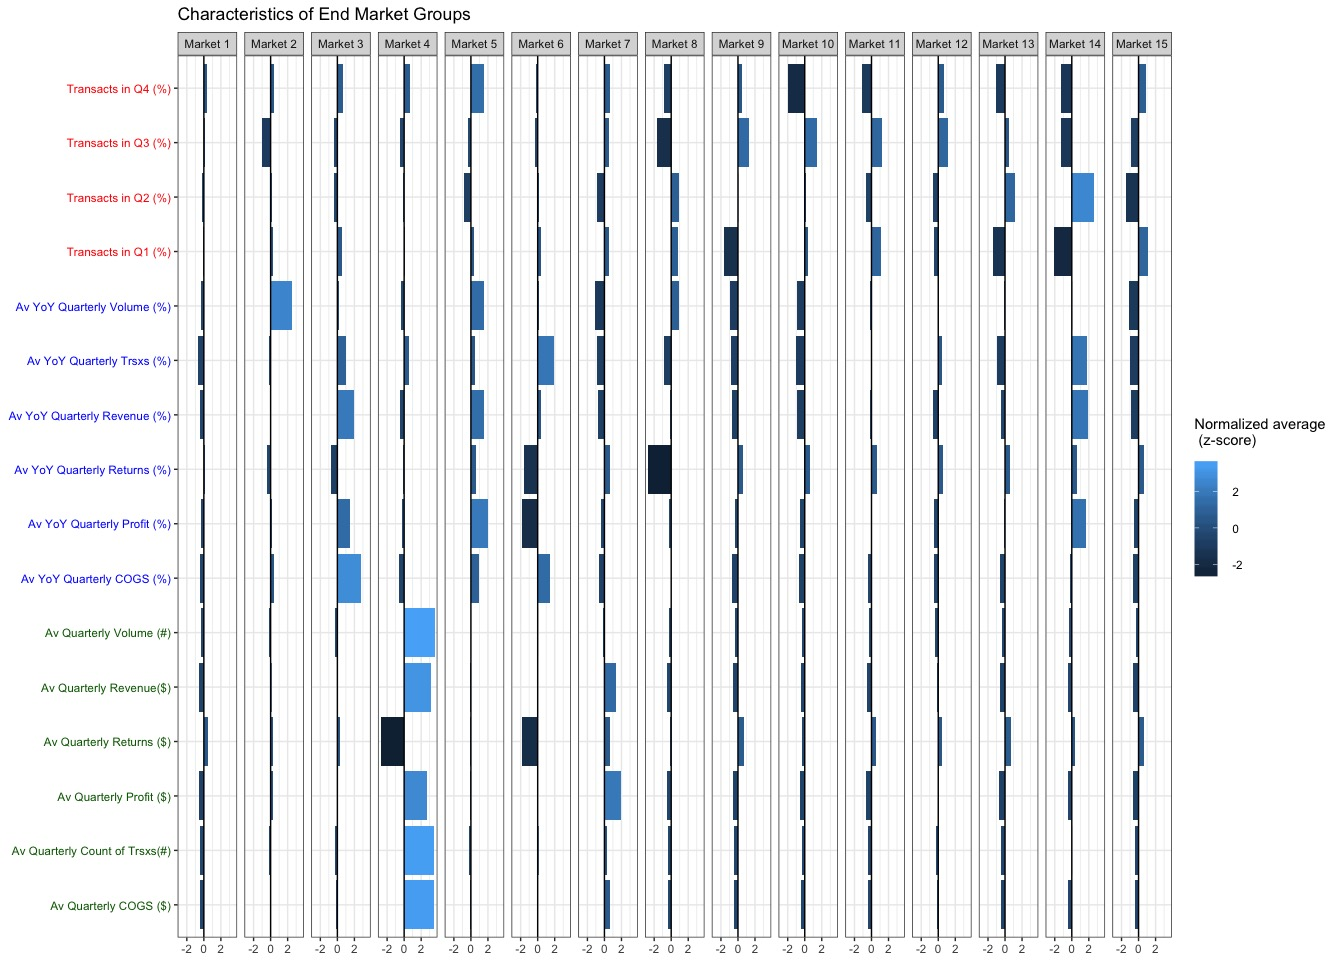
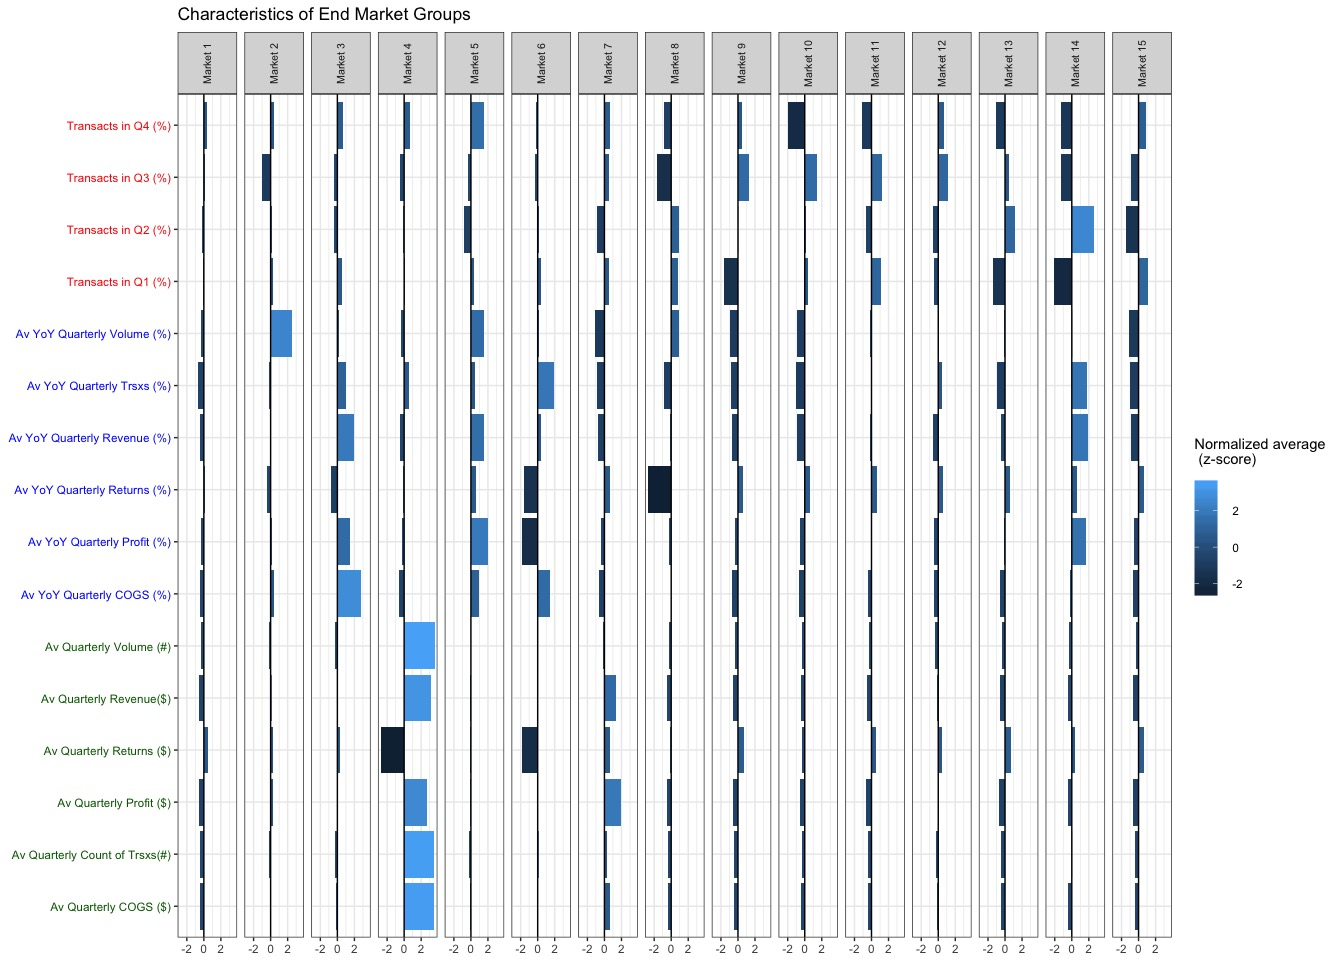
typos

diff --git a/README.md b/README.md
@@ -25,49 +25,45 @@ Objective:
 Either:
 
 1.  Encourage the fund to invest in this component manufacteruer
-2.  Highlight risks and steet company away
+2.  Highlight risks and steer company away
 
 Initial questions:
 ------------------
 
 -   What are potential risks that would steer company away?
--   Customer attrition?
--   Very few customers making up large percentage of purchases (i.e., fragile)
-
+    -   Customer attrition?
+    -   Very few customers making up large percentage of purchases (i.e., fragile)
 -   Potential Upside?
--   Is there significant $ headroom?
--   Reduce Costs?
--   Is there an optimization solution here in terms of cost of sales?
+    -   Is there significant $ headroom?
+    -   Reduce Costs?
+    -   Is there an optimization solution here in terms of cost of sales?
 -   Increase Revenues?
--   Unique characteristics include: components supplied are mission-critical and much cheaper than the final product which is assembled and sold by the customer.
--   Why are the components priced so low compared to the final products?
--   Price driven down by competition rather than margins?
--   Key player in industry, many times larger than competitors. Customers are locked-in by regulations, highly specialized products.
--   Increase cross-selling?
+    -   Unique characteristics include: components supplied are mission-critical and much cheaper than the final product which is assembled and sold by the customer.
+    -   Why are the components priced so low compared to the final products?
+    -   Price driven down by competition rather than margins?
+    -   Key player in industry, many times larger than competitors. Customers are locked-in by regulations, highly specialized products.
+    -   Increase cross-selling?
 
 Key Questions (from document)
 -----------------------------
 
 1.  Are there distinct customer segments, separate from the end market classifications that have been assigned by the management team?
 2.  Inform how we should be thinking about any of the following potential value creation drivers:
-
--   driving profit by increasing pricing
--   consolidating plant footprint
--   improving how the company purchases raw materials
--   etc.?
-
-1.  If the data raises additional questions or there are additional opportunities for insight, but you would require
-
--   additional company data
--   external third‐party data, or
--   a conversation with management
+    -   driving profit by increasing pricing
+    -   consolidating plant footprint
+    -   improving how the company purchases raw materials
+    -   etc.?
+3.  If the data raises additional questions or there are additional opportunities for insight, but you would require
+    -   additional company data
+    -   external third‐party data, or
+    -   a conversation with management
 
 please highlight your proposed analyses, their objectives, how they can help influence our decision‐making, and how you would execute them.
 
 Method:
 -------
 
-Explore the customer base. Mgmt has classified customers by end market, however, these classifications may be too broad and they may obscure important information. Since the customers are manufactuers who then sell their products to other markets, there is likely a wide variety of customer end-behavior to be explored.
+Explore the customer base. Mgmt has classified customers by end market, however, these classifications may be too broad and they may obscure important information. Since the customers are manufactuers who then sell their products to other markets, there is likely a wide variety of customer end-behavior to be explored. Cluster using a k-centroids method then compare new segments vs. BAU classification.
 
 Analysis
 ========
@@ -893,7 +889,7 @@ colorpal <- c("darkgreen","darkgreen","darkgreen","darkgreen","darkgreen","darkg
               , "red","red","red","red"
               )
 
-end_market_groups <- end_market_groups + theme(axis.text.y=element_text(colour=colorpal))
+end_market_groups <- end_market_groups + theme(axis.text.y = element_text(colour=colorpal), strip.text.x = element_text(size = 8, angle = 90))
 
 end_market_groups
 ```
@@ -1133,7 +1129,7 @@ Output
 
 ``` r
 # cluster groups:
-jpeg(filename = "img/cluster-groups.png", width = 10, height = 4, units = "in", res = 1000)
+jpeg(filename = "img/cluster-groups.png", width = 10, height = 6, units = "in", res = 1000)
 cluster_groups
 dev.off()
 ```
@@ -1143,7 +1139,7 @@ dev.off()
 
 ``` r
 # end market groups:
-jpeg(filename = "img/end-market-groups.png", width = 10, height = 4, units = "in", res = 1000)
+jpeg(filename = "img/end-market-groups.png", width = 10, height = 6, units = "in", res = 1000)
 end_market_groups
 dev.off()
 ```
